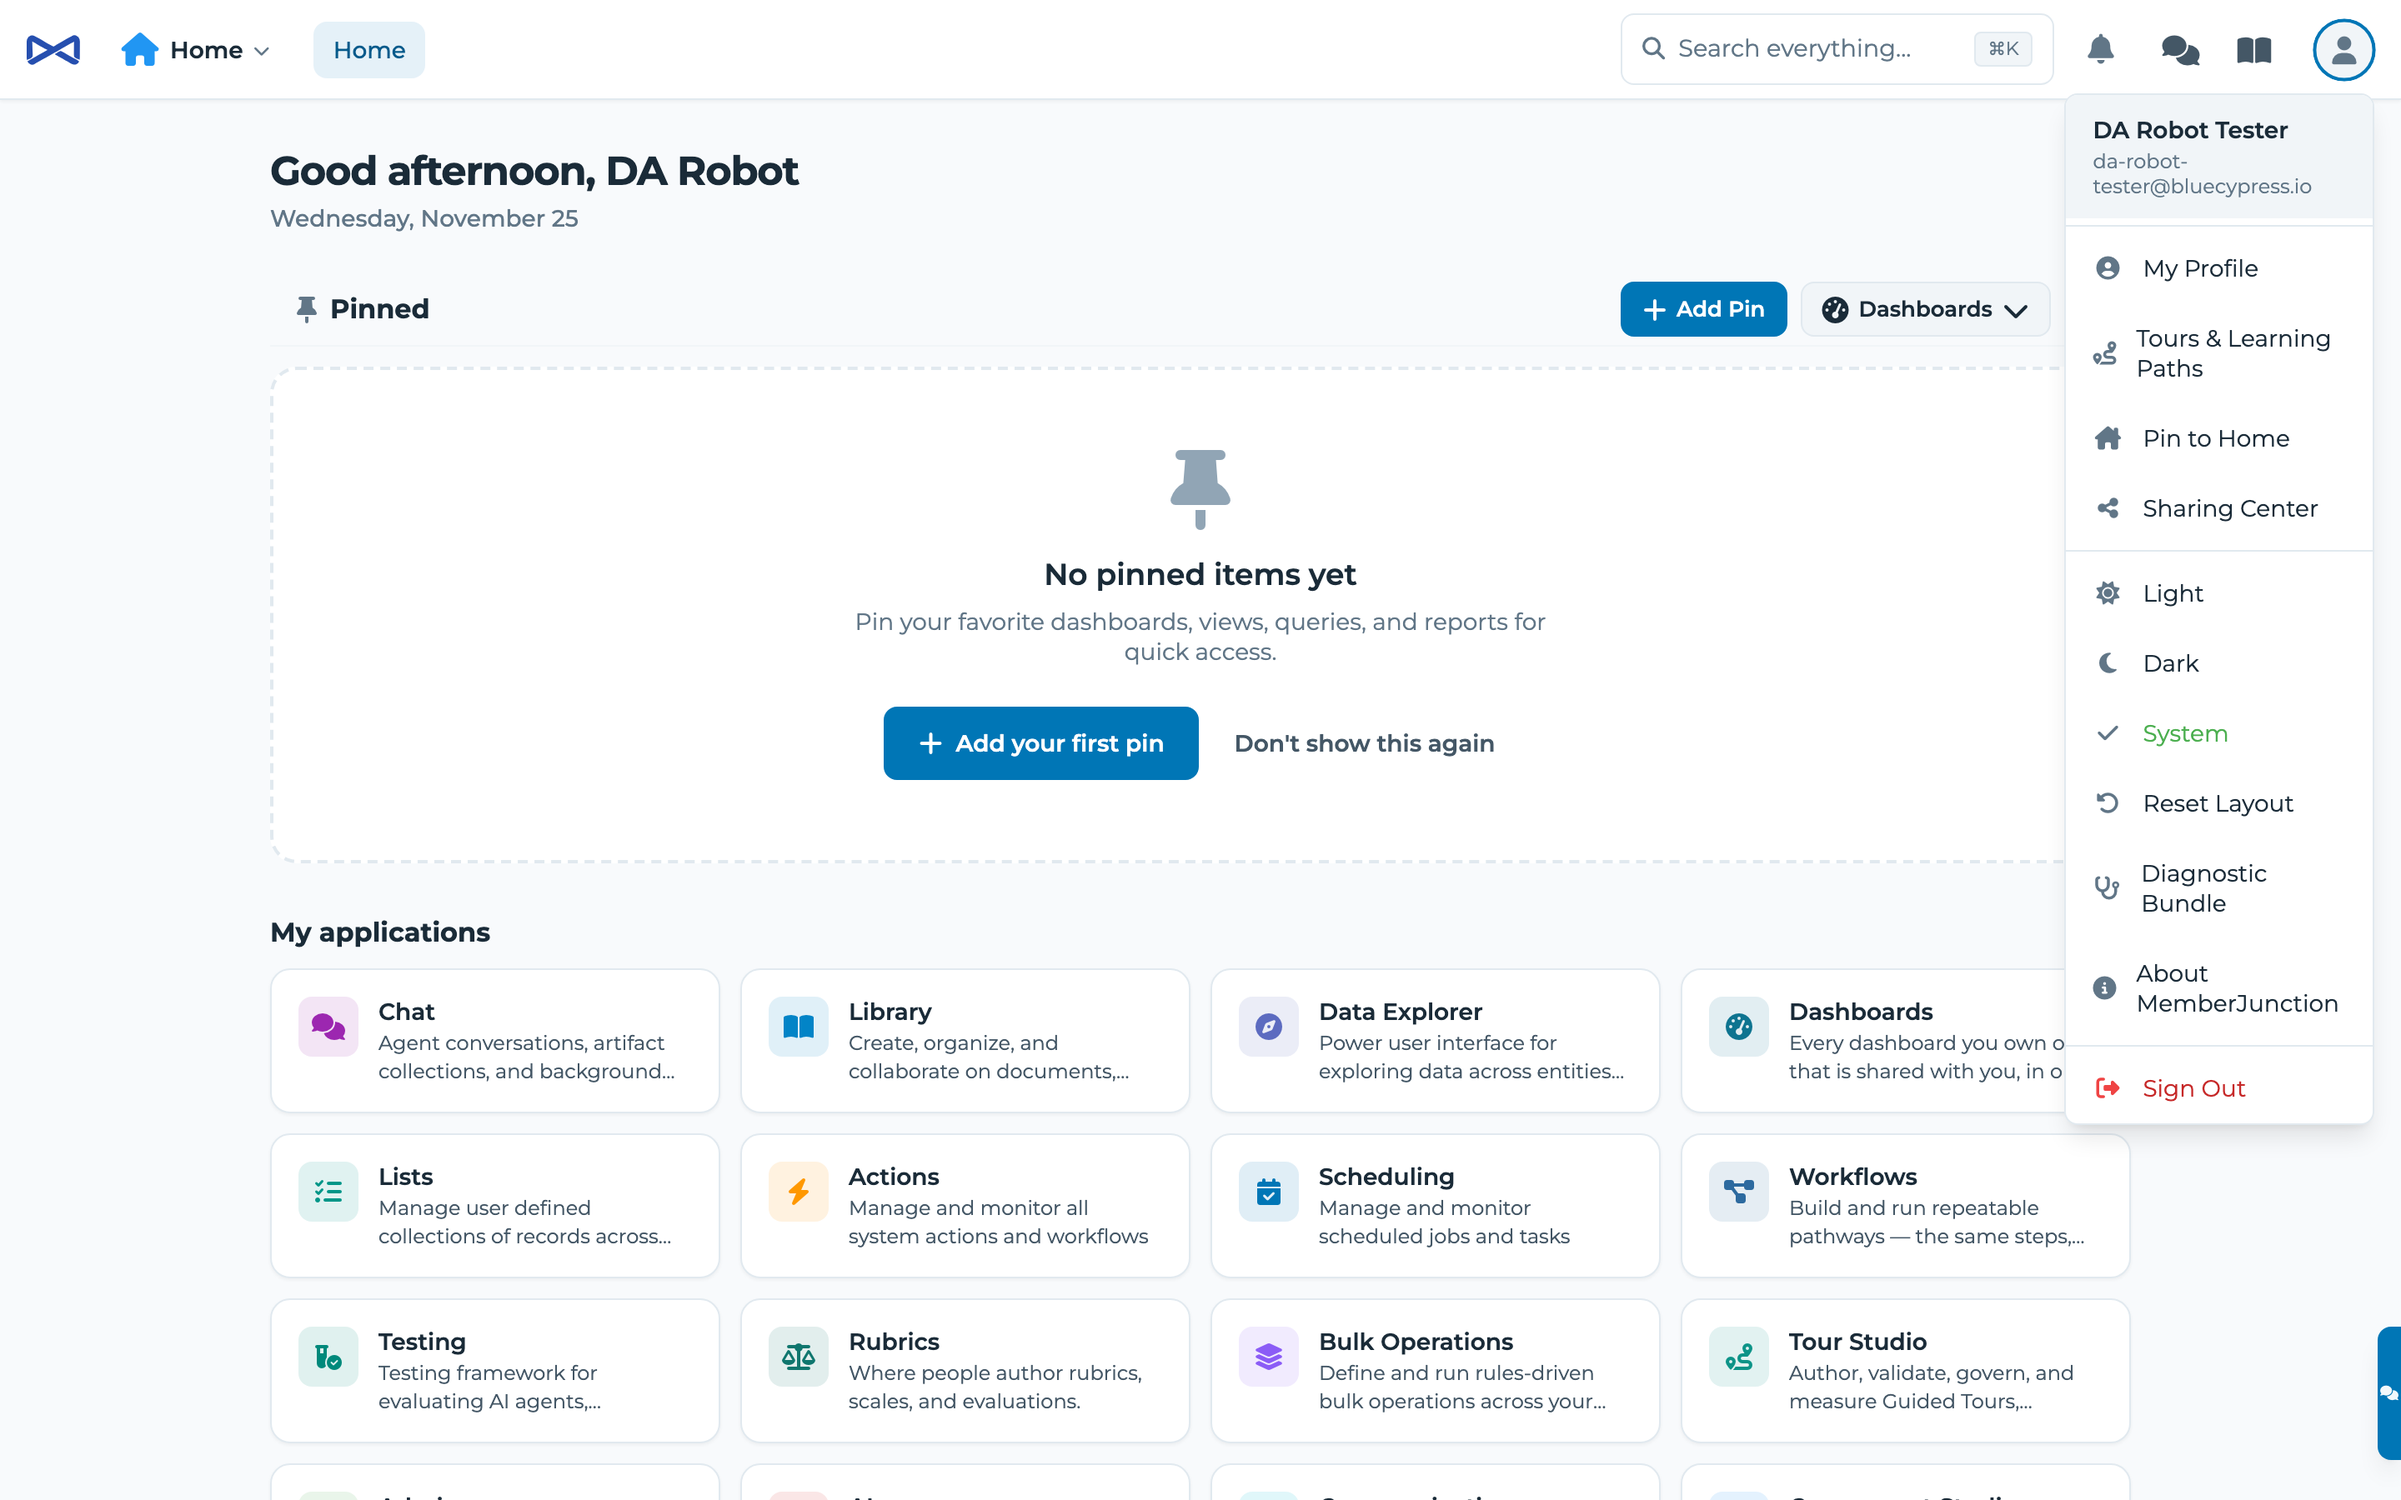
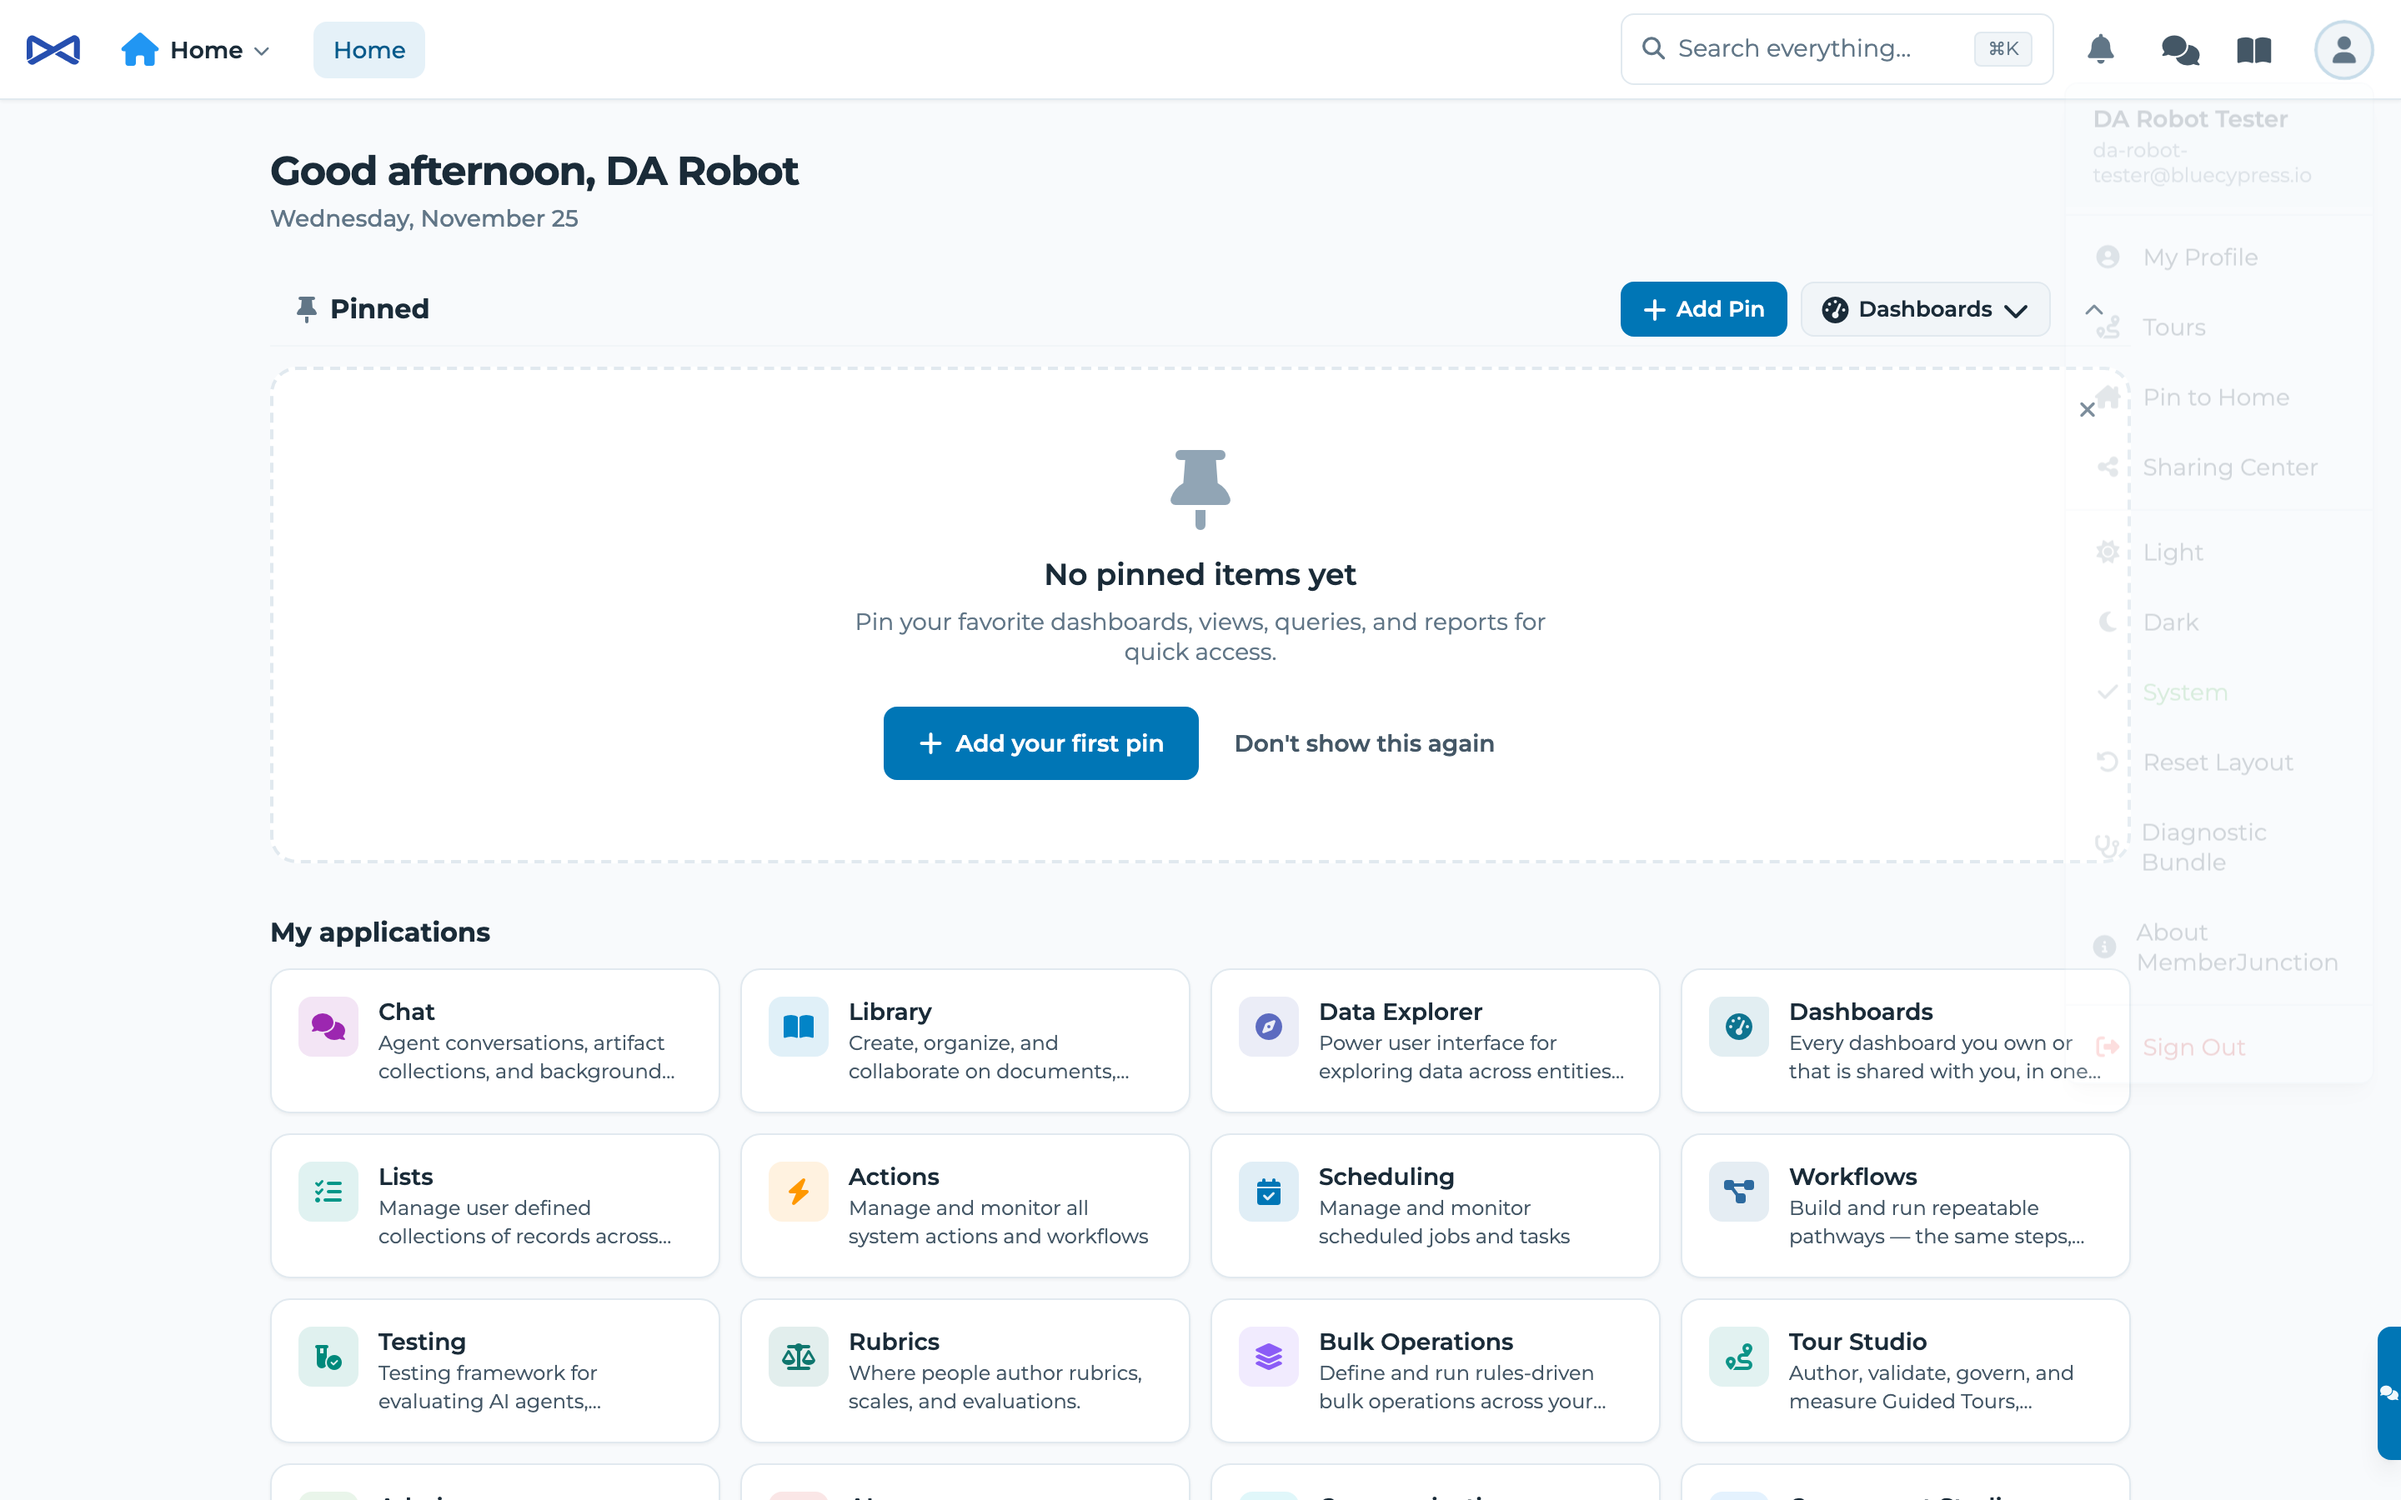
chore(tours): shorten User Menu label to 'Tours' and refresh screenshot

diff --git a/packages/Angular/Explorer/explorer-core/src/lib/user-menu/base-user-menu.ts b/packages/Angular/Explorer/explorer-core/src/lib/user-menu/base-user-menu.ts
@@ -134,7 +134,7 @@ export class BaseUserMenu {
             },
             {
                 id: 'tours-and-help',
-                label: 'Tours & Learning Paths',
+                label: 'Tours',
                 icon: 'fa-solid fa-route',
                 group: 'primary',
                 order: 15,

diff --git a/guides/GUIDED_TOURS_GUIDE.md b/guides/GUIDED_TOURS_GUIDE.md
@@ -60,7 +60,7 @@ flowchart LR
 
 ### Core Design Principles
 
-- **Clean Workspace Chrome**: Tours and Learning Paths live inside the **User Avatar Menu** (`Tours & Learning Paths`) rather than occupying permanent real estate on the Home dashboard. While a tour is actively running, a compact route indicator pill appears in the header for one-click pause/resume/stop controls.
+- **Clean Workspace Chrome**: Tours and Learning Paths live inside the **User Avatar Menu** (**Tours**) rather than occupying permanent real estate on the Home dashboard. While a tour is actively running, a compact route indicator pill appears in the header for one-click pause/resume/stop controls.
 - **Immutable Version Snapshots**: Editing a draft tour never mutates in-flight runs or historical analytics. Publishing a tour computes a canonical SHA-256 content hash and writes an immutable `MJ: Tour Versions` snapshot (`v1`, `v2`, …) referenced by `Tour.CurrentVersionID` and `TourRun.TourVersionID`.
 - **Semantic & Resilient Anchors**: Tours anchor to `data-mj-tour-anchor="<prefix>.<area>.<element>"` attributes, semantic entity form hooks (`FormField`, `FormSection`, `FormRailGroup`, `FormToolbarAction`), or `NavItem` driver classes — never brittle CSS class chains — and declare `OnMissing: "Center"` fallbacks so UI layout changes never strand a user mid-tour.
 - **True Directed Acyclic Graph (DAG) Execution**: Every tour compiles into an `@memberjunction/graph` `IGraphRepository`, supporting `Choice` branching, `CompositeFilter` / `SafeExpressionEvaluator` edge conditions, convergence onto shared summary steps, and static cycle rejection via `DetectCycle`.
@@ -70,13 +70,13 @@ flowchart LR
 
 ## 2. Discovery Surfaces: User Menu Launcher, First-Visit Offers & Omnibar
 
-### A. Clean Home & User Avatar Menu (`Tours & Learning Paths`)
+### A. Clean Home & User Avatar Menu (`Tours`)
 
-Opening the **User Avatar Menu** in the top-right shell header reveals **Tours & Learning Paths** (`core.shell.tours-launcher`) directly beneath **My Profile**, keeping the Home workspace focused on pinned items and applications:
+Opening the **User Avatar Menu** in the top-right shell header reveals **Tours** (`core.shell.tours-launcher`) directly beneath **My Profile**, keeping the Home workspace focused on pinned items and applications:
 
-![Clean Home Workspace and User Menu Tours & Learning Paths Entry](assets/guided-tours/01-clean-home-and-user-menu.png)
+![Clean Home Workspace and User Menu Tours Entry](assets/guided-tours/01-clean-home-and-user-menu.png)
 
-Clicking **Tours & Learning Paths** opens a three-tab launcher popover:
+Clicking **Tours** opens the **Tours & Learning Paths** three-tab launcher popover:
 
 1. **For This Screen**: Contextual tours matching the active application, dashboard `DriverClass`, or open entity record.
 2. **All Apps**: Global catalog grouping every eligible active tour across MemberJunction Core and installed OpenApps (`Orders`, `Sales`, `Accounting`, `Sonar`, `AI`, `Knowledge Hub`, etc.) with live **`✓ Completed`** and **`In Progress`** status badges so users can launch or replay any tour from anywhere.
